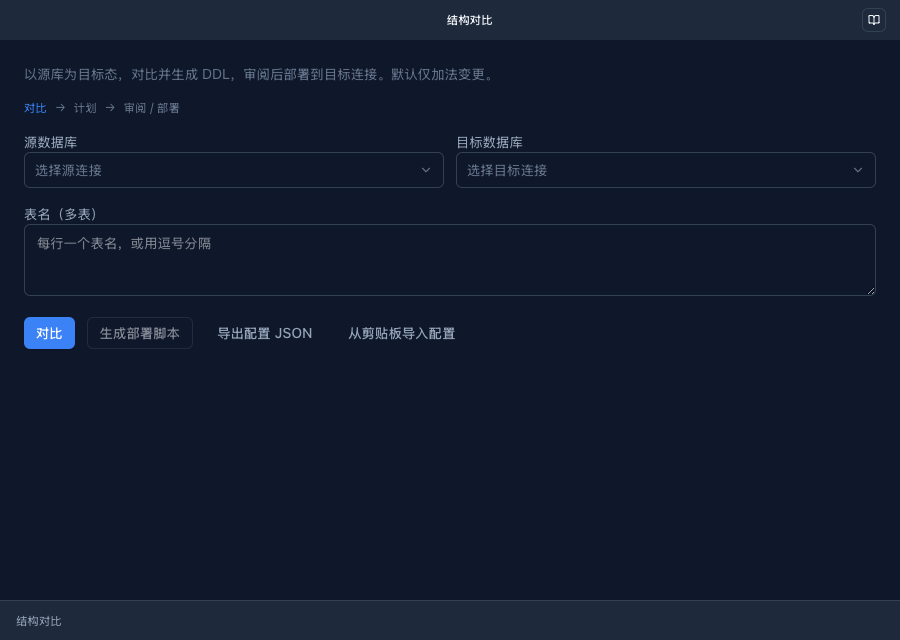
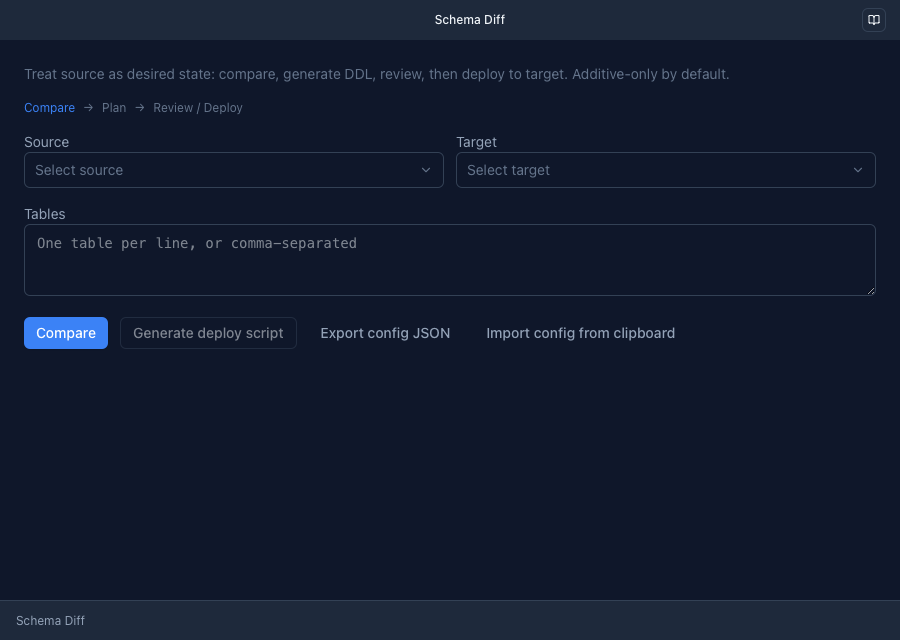
chore(site): capture sync/transfer/diff screenshots in English
Switch locale to en before marketing shots for sub-windows 26/27/28
and dismiss limitations dialogs so the UI renders cleanly.

diff --git a/e2e/specs/zz-screenshots.ts b/e2e/specs/zz-screenshots.ts
@@ -67,6 +67,26 @@ async function invoke<T = unknown>(cmd: string, args: Record<string, unknown> = 
   ) as Promise<T>;
 }
 
+/** Switch UI language and reload the main window so i18n strings update. */
+async function setAppLanguage(mainWin: string, language: 'en' | 'zh-CN') {
+  const settings = await invoke<Record<string, unknown>>('get_settings');
+  await invoke('save_settings', { settings: { ...settings, language } });
+  await browser.switchToWindow(mainWin);
+  await browser.execute(() => location.reload());
+  await browser.pause(2000);
+  await $('[data-testid="workspace-nav-connections"]').waitForDisplayed({ timeout: 15000 });
+}
+
+async function dismissLimitationsDialogIfOpen(testIdPrefix: string) {
+  await browser.execute((prefix: string) => {
+    const close = document.querySelector(
+      `[data-testid="${prefix}-limitations-close"]`,
+    ) as HTMLElement | null;
+    close?.click();
+  }, testIdPrefix);
+  await browser.pause(400);
+}
+
 async function setWindowSize(w = 2400, h = 1600) {
   await invoke('plugin:window|set_size', { size: { width: w, height: h } });
   await browser.pause(600);
@@ -1631,81 +1651,88 @@ describe('site screenshots', () => {
   // ─────────────────────── 26/27/28 sub-windows ────────────────────────────
 
   it('26-data-sync / 27-schema-diff / 28-data-transfer windows', async () => {
-    await goToConnections();
-    await ensureDemoPgConnectedInTree();
-
-    // 数据同步 (compare data): demo PG primary ↔ analytics DB.
+    await setAppLanguage(mainWindow, 'en');
     try {
-      await openDbContextMenu(DEMO_PG_DB, '比较数据');
-      let handles = await browser.getWindowHandles();
-      await browser.waitUntil(async () => (await browser.getWindowHandles()).length > 1, {
-        timeout: 10000,
-        timeoutMsg: '数据同步窗口未打开',
-      });
-      handles = await browser.getWindowHandles();
-      await browser.switchToWindow(handles.find((h) => h !== mainWindow)!);
-      await browser.pause(1200);
-      await shot('26-data-sync.png');
-      await browser.closeWindow();
-      await browser.switchToWindow(mainWindow);
-    } catch (e) {
-      console.warn(`[warn] 26-data-sync skipped: ${e}`);
-      if ((await browser.getWindowHandles()).length > 1) {
-        await browser.closeWindow();
-        await browser.switchToWindow(mainWindow);
-      }
-    }
-
-    // 结构对比 (schema diff): hidden from ctx menu when schemaDiff flag is off — open sub-window via IPC.
-    try {
-      await browser.switchToWindow(mainWindow);
       await goToConnections();
-      await invoke('create_sub_window', {
-        options: {
-          label: 'schema-diff-singleton',
-          url: 'window.html?window=schema-diff',
-          title: '结构对比 - DataZen',
-          width: 900,
-          height: 640,
-        },
-      });
-      await browser.waitUntil(async () => (await browser.getWindowHandles()).length > 1, {
-        timeout: 10000,
-        timeoutMsg: '结构对比窗口未打开',
-      });
-      const hs = await browser.getWindowHandles();
-      await browser.switchToWindow(hs.find((h) => h !== mainWindow)!);
-      await browser.pause(1200);
-      await shot('27-schema-diff.png');
-      await browser.closeWindow();
-      await browser.switchToWindow(mainWindow);
-    } catch (e) {
-      console.warn(`[warn] 27-schema-diff skipped: ${e}`);
-      if ((await browser.getWindowHandles()).length > 1) {
-        await browser.closeWindow();
-        await browser.switchToWindow(mainWindow);
-      }
-    }
+      await ensureDemoPgConnectedInTree();
 
-    // 数据传输 (data transfer).
-    try {
-      await openDbContextMenu(DEMO_PG_DB, '数据传输');
-      await browser.waitUntil(async () => (await browser.getWindowHandles()).length > 1, {
-        timeout: 10000,
-        timeoutMsg: '数据传输窗口未打开',
-      });
-      const hs = await browser.getWindowHandles();
-      await browser.switchToWindow(hs.find((h) => h !== mainWindow)!);
-      await browser.pause(1200);
-      await shot('28-data-transfer.png');
-      await browser.closeWindow();
-      await browser.switchToWindow(mainWindow);
-    } catch (e) {
-      console.warn(`[warn] 28-data-transfer skipped: ${e}`);
-      if ((await browser.getWindowHandles()).length > 1) {
+      // Data Sync: demo PG primary ↔ analytics DB.
+      try {
+        await openDbContextMenu(DEMO_PG_DB, 'Compare Data');
+        let handles = await browser.getWindowHandles();
+        await browser.waitUntil(async () => (await browser.getWindowHandles()).length > 1, {
+          timeout: 10000,
+          timeoutMsg: 'Data Sync window did not open',
+        });
+        handles = await browser.getWindowHandles();
+        await browser.switchToWindow(handles.find((h) => h !== mainWindow)!);
+        await browser.pause(1200);
+        await shot('26-data-sync.png');
         await browser.closeWindow();
         await browser.switchToWindow(mainWindow);
+      } catch (e) {
+        console.warn(`[warn] 26-data-sync skipped: ${e}`);
+        if ((await browser.getWindowHandles()).length > 1) {
+          await browser.closeWindow();
+          await browser.switchToWindow(mainWindow);
+        }
       }
+
+      // Schema Diff: hidden from ctx menu when schemaDiff flag is off — open sub-window via IPC.
+      try {
+        await browser.switchToWindow(mainWindow);
+        await goToConnections();
+        await invoke('create_sub_window', {
+          options: {
+            label: 'schema-diff-singleton',
+            url: 'window.html?window=schema-diff',
+            title: 'Schema Diff - DataZen',
+            width: 900,
+            height: 640,
+          },
+        });
+        await browser.waitUntil(async () => (await browser.getWindowHandles()).length > 1, {
+          timeout: 10000,
+          timeoutMsg: 'Schema Diff window did not open',
+        });
+        const hs = await browser.getWindowHandles();
+        await browser.switchToWindow(hs.find((h) => h !== mainWindow)!);
+        await dismissLimitationsDialogIfOpen('schema-diff');
+        await browser.pause(1200);
+        await shot('27-schema-diff.png');
+        await browser.closeWindow();
+        await browser.switchToWindow(mainWindow);
+      } catch (e) {
+        console.warn(`[warn] 27-schema-diff skipped: ${e}`);
+        if ((await browser.getWindowHandles()).length > 1) {
+          await browser.closeWindow();
+          await browser.switchToWindow(mainWindow);
+        }
+      }
+
+      // Data Transfer.
+      try {
+        await openDbContextMenu(DEMO_PG_DB, 'Data Transfer');
+        await browser.waitUntil(async () => (await browser.getWindowHandles()).length > 1, {
+          timeout: 10000,
+          timeoutMsg: 'Data Transfer window did not open',
+        });
+        const hs = await browser.getWindowHandles();
+        await browser.switchToWindow(hs.find((h) => h !== mainWindow)!);
+        await dismissLimitationsDialogIfOpen('data-transfer');
+        await browser.pause(1200);
+        await shot('28-data-transfer.png');
+        await browser.closeWindow();
+        await browser.switchToWindow(mainWindow);
+      } catch (e) {
+        console.warn(`[warn] 28-data-transfer skipped: ${e}`);
+        if ((await browser.getWindowHandles()).length > 1) {
+          await browser.closeWindow();
+          await browser.switchToWindow(mainWindow);
+        }
+      }
+    } finally {
+      await setAppLanguage(mainWindow, 'zh-CN');
     }
   });
 
